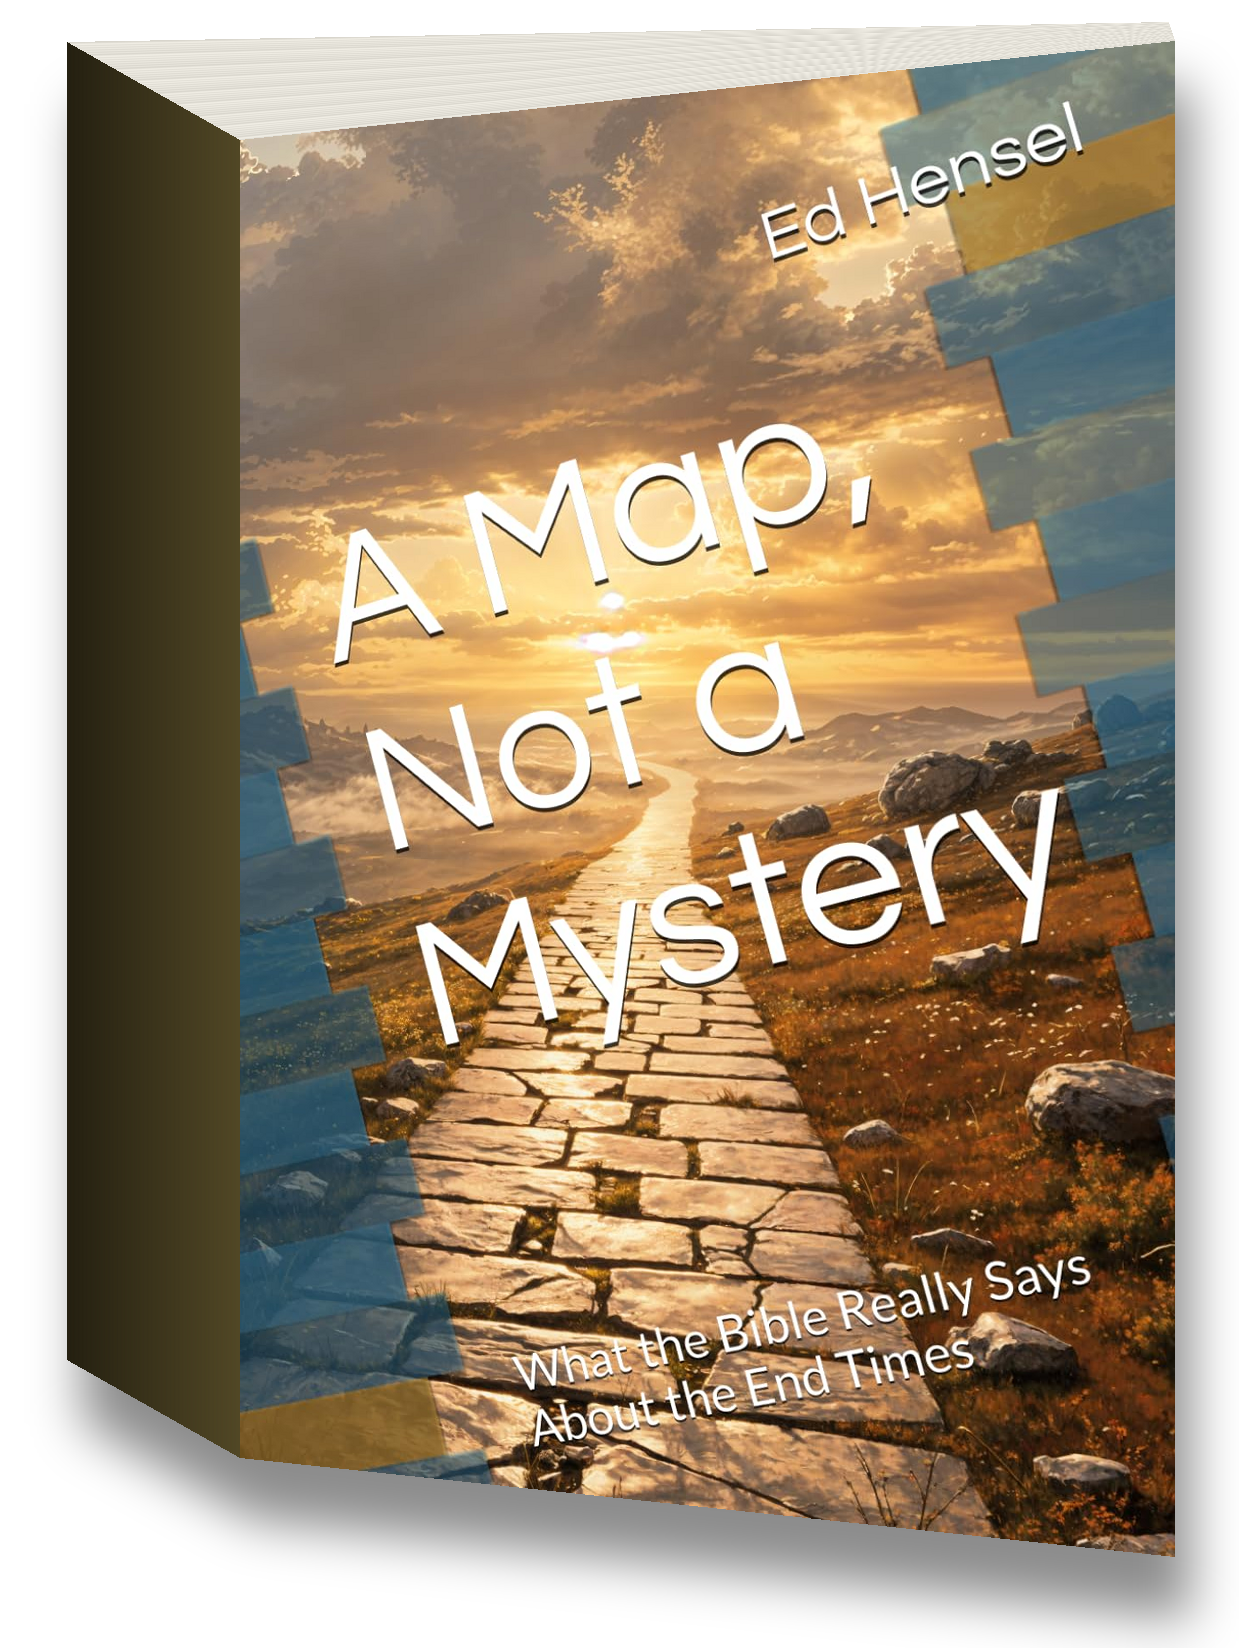
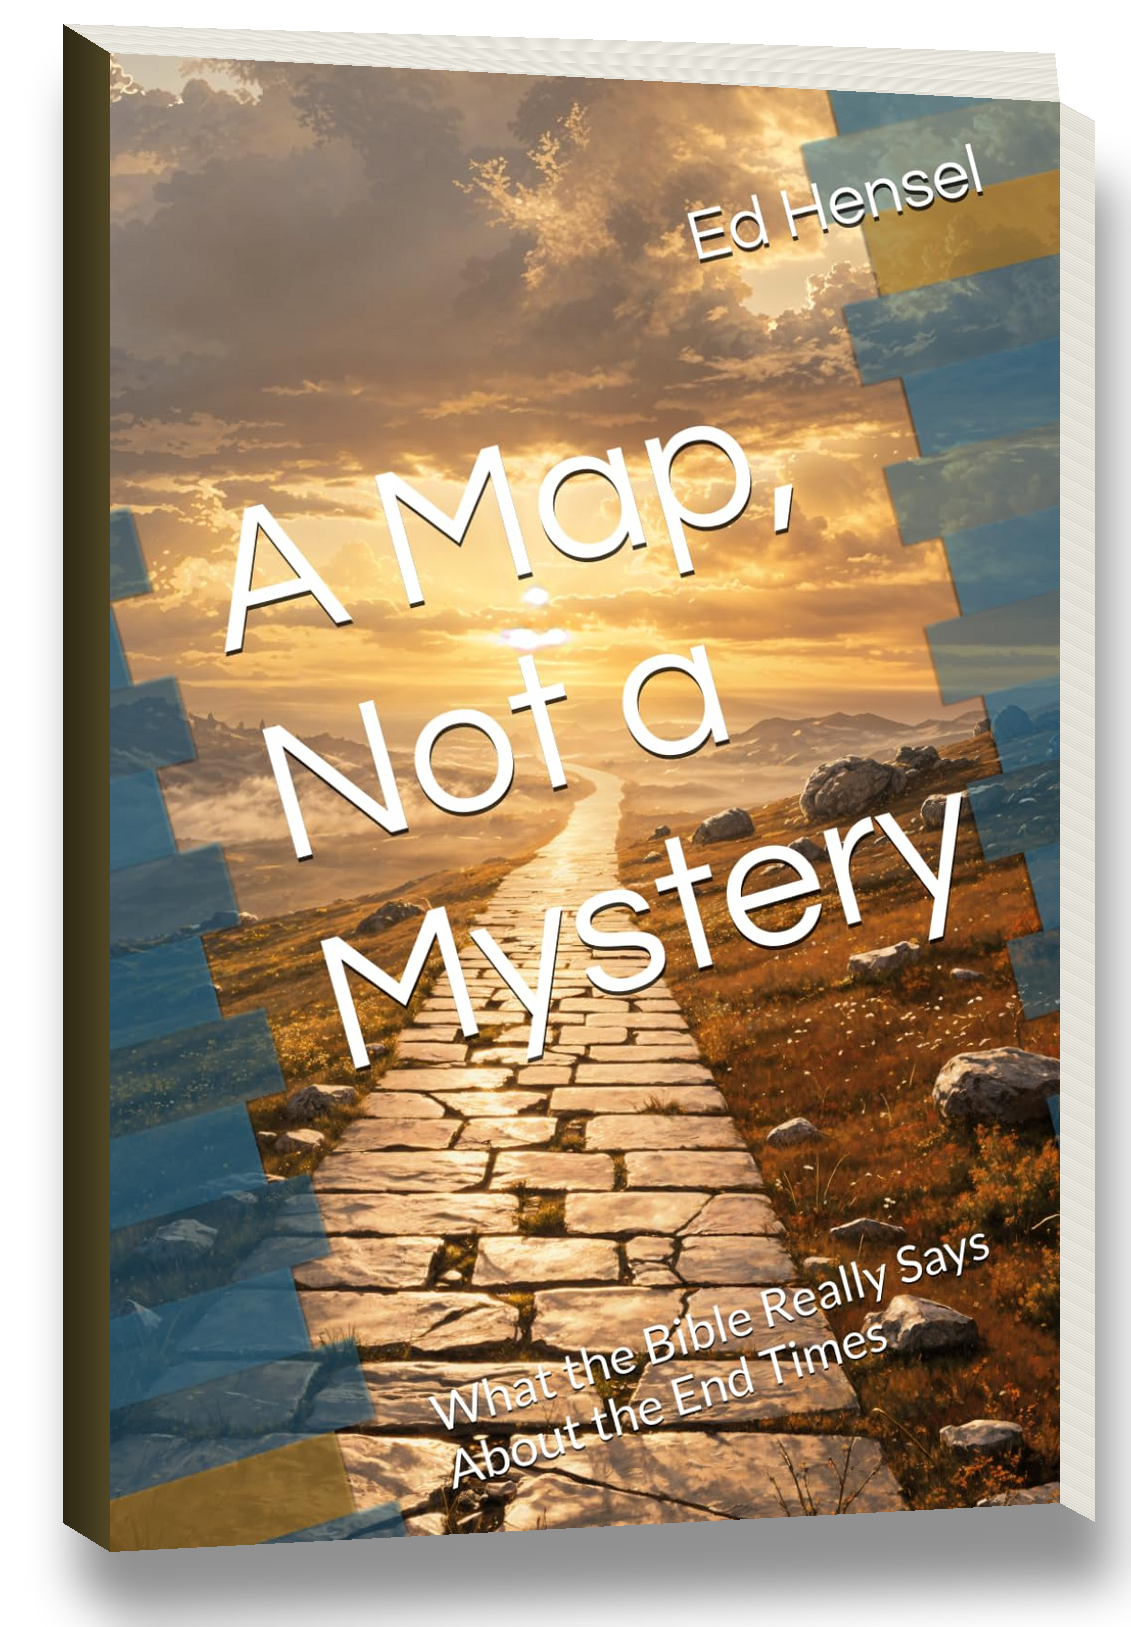
Refine 3D mockup: subtle spine + visible top/right page edges

diff --git a/index.html b/index.html
@@ -78,7 +78,7 @@
     <section class="hero">
       <div class="container hero-split">
         <div class="hero-cover">
-          <img src="book-cover-3d.png" alt="Book cover of A Map, Not a Mystery: What the Bible Really Says About the End Times by Ed Hensel" width="400" height="532">
+          <img src="book-cover-3d.png" alt="Book cover of A Map, Not a Mystery: What the Bible Really Says About the End Times by Ed Hensel" width="400" height="575">
         </div>
         <div class="hero-text">
           <h1>A Map, Not a Mystery</h1>

diff --git a/book.html b/book.html
@@ -88,7 +88,7 @@
       <div class="container">
         <div class="book-showcase">
           <div class="book-showcase__cover">
-            <img src="book-cover-3d.png" alt="Book cover of A Map, Not a Mystery by Ed Hensel" width="350" height="466">
+            <img src="book-cover-3d.png" alt="Book cover of A Map, Not a Mystery by Ed Hensel" width="350" height="503">
           </div>
           <div class="book-showcase__info">
             <h2 id="book-title">A Map, Not a Mystery</h2>
